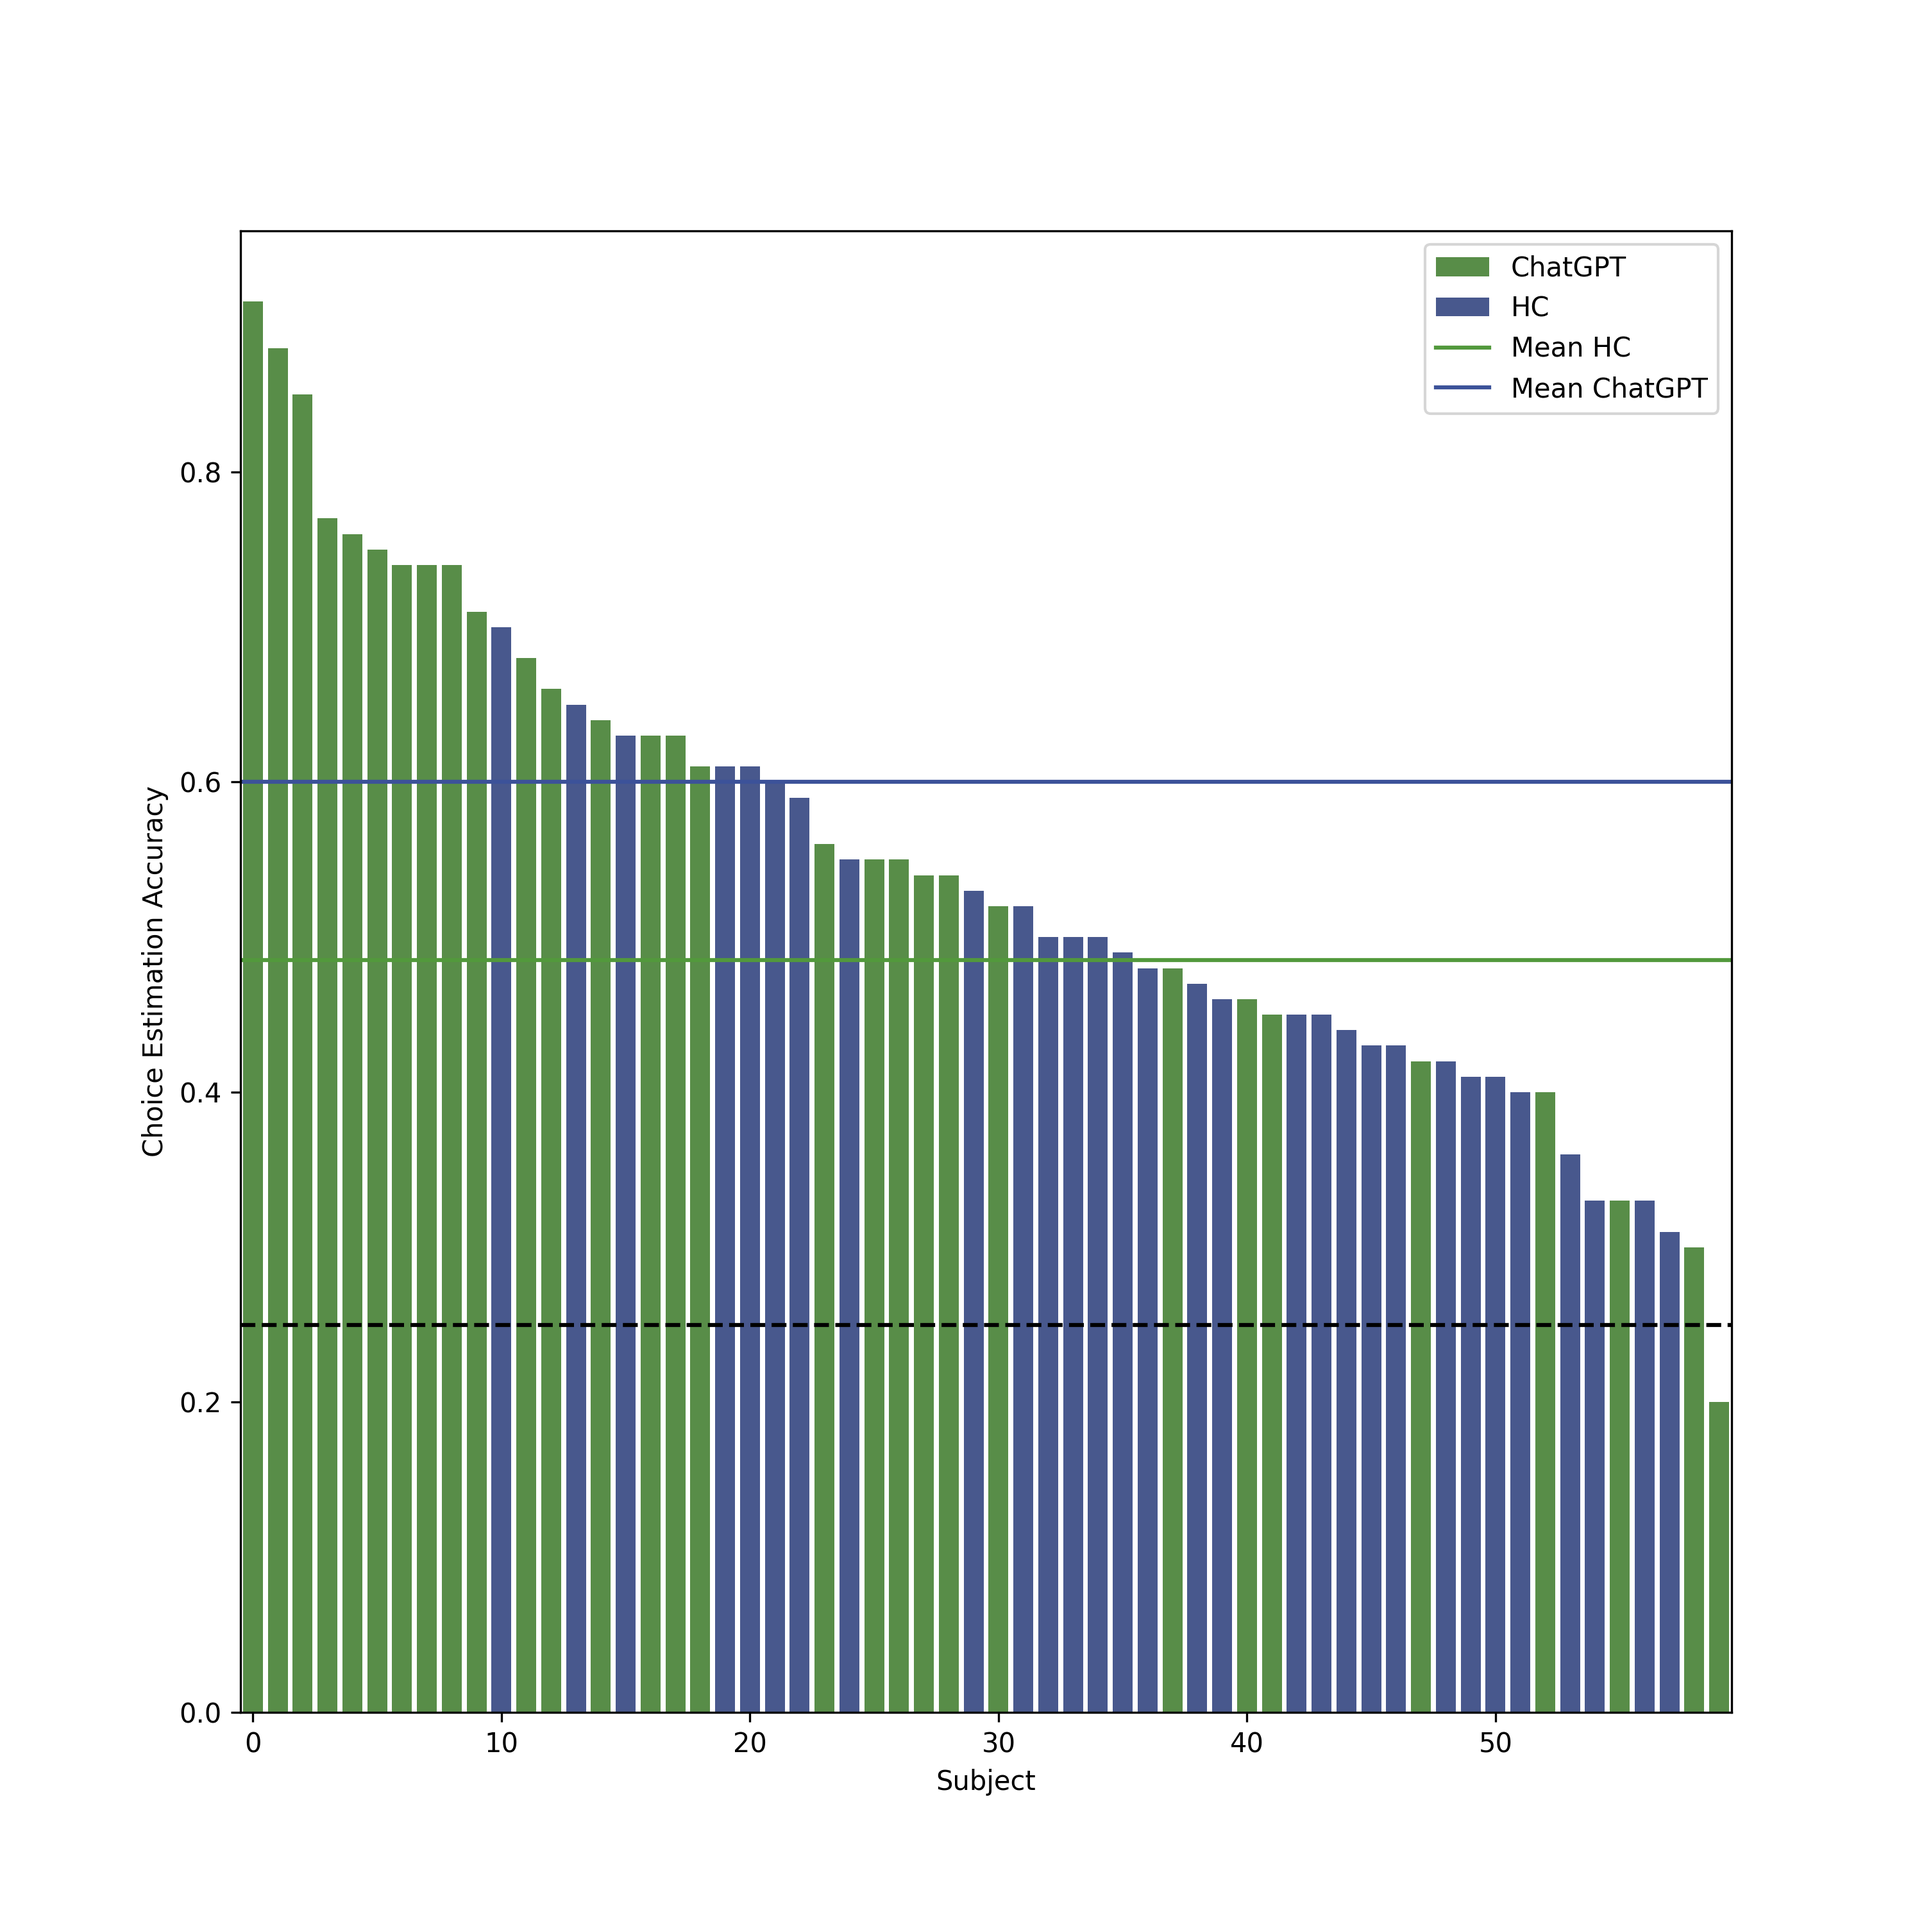
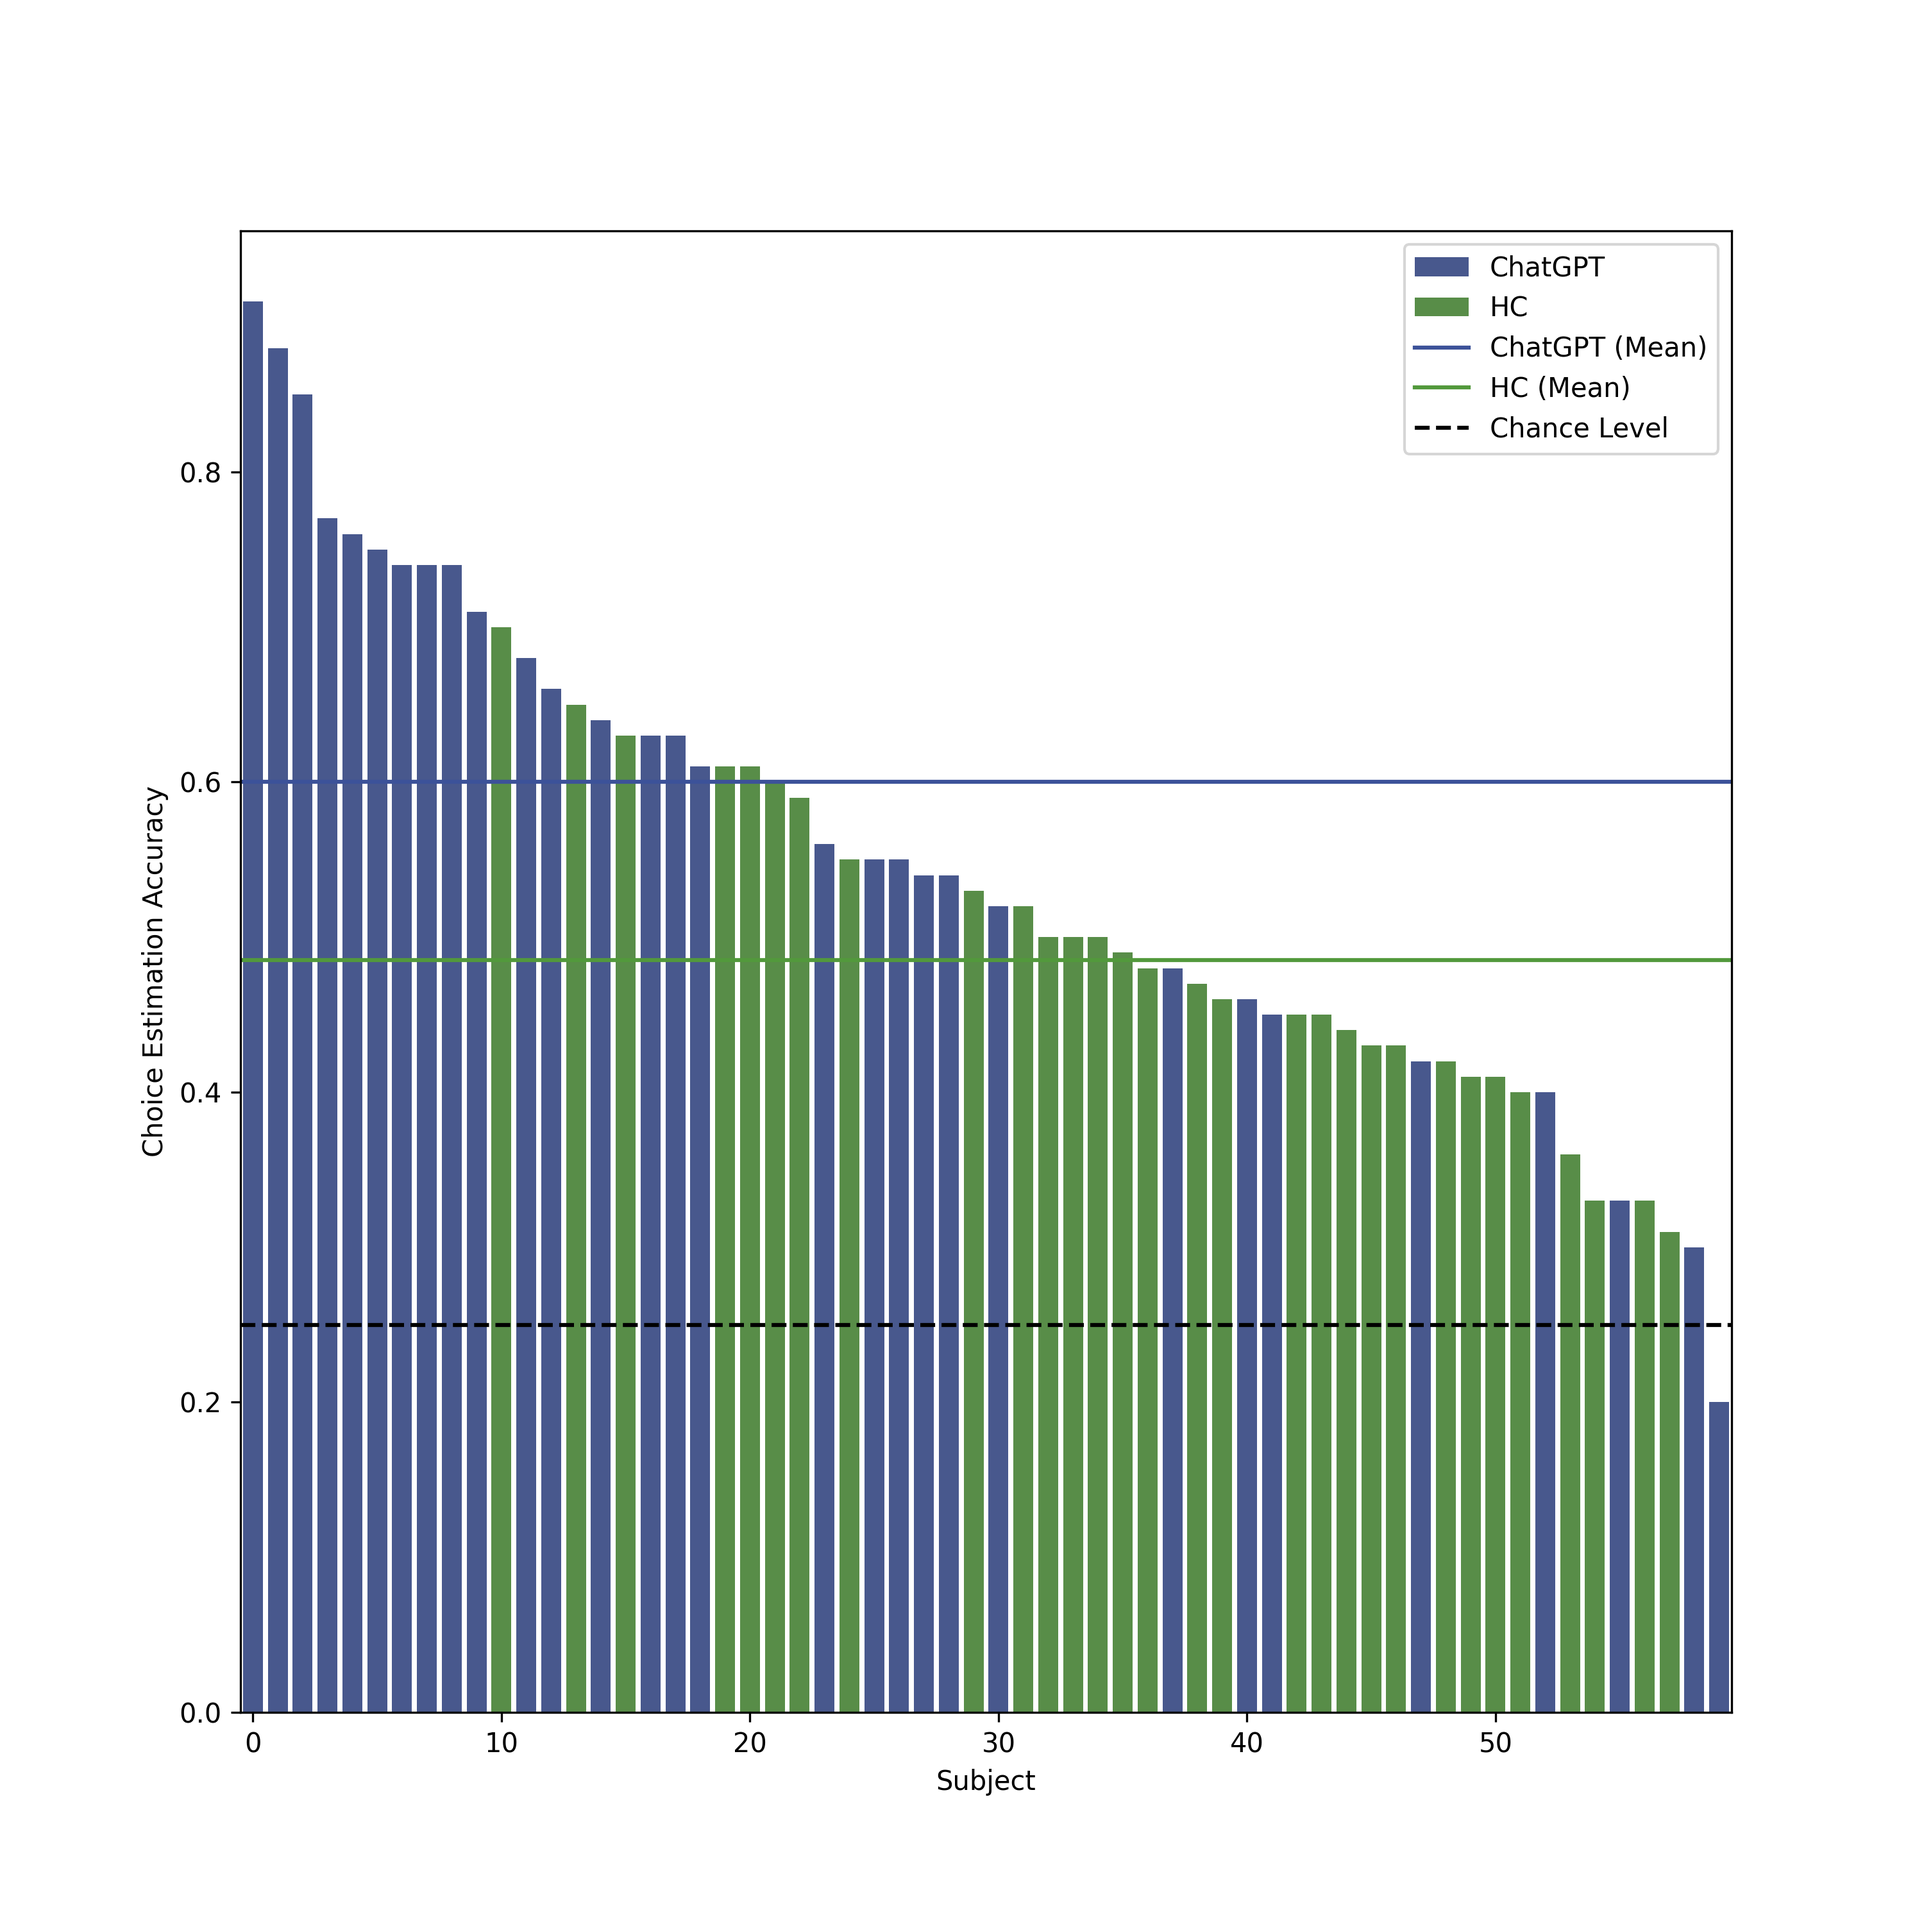
fixed color mix ups, streamlined labels on legend

Changed region(s): [[0.124, 0.155, 0.899, 0.899], [0.713, 0.124, 0.899, 0.248]]

diff --git a/src/estimation/plot_estimates.py b/src/estimation/plot_estimates.py
@@ -28,14 +28,13 @@ def plot_posteriors(hc_data, gpt_data, colors=["#398A20", "#20398A"], parameters
             "mu_K": lambda size: sample_truncated_normal(0, 1, 0, np.inf, size),
             "mu_theta": lambda size: sample_truncated_normal(0, 1, 0, np.inf, size),
             "mu_omega_f": lambda size: np.random.normal(0, 1, size),
-            "mu_omega_p": lambda size: np.random.normal(0, 1, size),
-            # Add other priors if necessary
+            "mu_omega_p": lambda size: np.random.normal(0, 1, size)
         }
 
     for i, (param_name, param_title) in enumerate(parameters):
         ax = axs[i // 2, i % 2]
         sns.kdeplot(hc_data[param_name], ax=ax, fill=True, alpha=0.5, label="HC", color=colors[0])
-        sns.kdeplot(gpt_data[param_name], ax=ax, fill=True, alpha=0.5, label="GPT", color=colors[1])
+        sns.kdeplot(gpt_data[param_name], ax=ax, fill=True, alpha=0.5, label="ChatGPT", color=colors[1])
 
         # Plot prior if show_priors is True
         if show_priors and priors:
@@ -49,6 +48,50 @@ def plot_posteriors(hc_data, gpt_data, colors=["#398A20", "#20398A"], parameters
 
     if save_path is not None:
         plt.savefig(save_path, dpi=300)
+
+def plot_hc_posteriors(main_hc_sample, other_hc_samples, parameters=[("mu_a_rew", "$\mu A_{rew}$"), ("mu_a_pun", "$\mu A_{pun}$"), ("mu_K", "$\mu K$"), ("mu_theta","$\mu \\theta$"), ("mu_omega_f","$\mu \omega_F$"), ("mu_omega_p", "$\mu \omega_P$")], save_path=None, show_priors=False):
+    fig, axs = plt.subplots(3, 2, figsize=(10, 10))
+    plt.subplots_adjust(hspace=0.5)
+
+    # Define colors
+    main_color = "#398A20"  # Green for the main dataframe
+    other_color = "#D3D3D3"  # Light grey for other dataframes
+
+    # Define prior distributions only if show_priors is True
+    priors = None
+    if show_priors:
+        priors = {
+            "mu_a_rew": lambda size: sample_truncated_normal(0, 1, 0, 1, size),
+            "mu_a_pun": lambda size: sample_truncated_normal(0, 1, 0, 1, size),
+            "mu_K": lambda size: sample_truncated_normal(0, 1, 0, np.inf, size),
+            "mu_theta": lambda size: sample_truncated_normal(0, 1, 0, np.inf, size),
+            "mu_omega_f": lambda size: np.random.normal(0, 1, size),
+            "mu_omega_p": lambda size: np.random.normal(0, 1, size)
+        }
+
+    for i, (param_name, param_title) in enumerate(parameters):
+        ax = axs[i // 2, i % 2]
+
+        # Plot for main dataframe
+        sns.kdeplot(main_hc_sample[param_name], ax=ax, fill=True, alpha=0.5, label="Main", color=main_color)
+
+        # Plot for other dataframes
+        for other_df in other_hc_samples:
+            sns.kdeplot(other_df[param_name], ax=ax, fill=True, alpha=0.5, color=other_color, legend=False)
+
+        # Plot prior if show_priors is True
+        if show_priors and priors:
+            prior_samples = priors[param_name](1000)
+            sns.kdeplot(prior_samples, ax=ax, color="k", linestyle="--", alpha=0.5, label="Prior")
+
+        ax.set_title(param_title)
+        ax.set_xlabel("Value")
+        ax.set_ylabel("Density")
+        ax.legend()
+
+    if save_path is not None:
+        plt.savefig(save_path, dpi=300)
+
 
 def plot_multiple_descriptive_adequacies(hc_data, gpt_data, colors = ["#52993C", "#3C5299"], save_path=None):
     '''
@@ -76,7 +119,7 @@ def plot_multiple_descriptive_adequacies(hc_data, gpt_data, colors = ["#52993C",
     df = df.sort_values(by=['pred_success'], ascending=False).reset_index(drop=True)
 
     # Create bar plot with each subject (row) on the x-axis and the accuracy on the y-axis and colored by group
-    sns.barplot(x=df.index, y=df['pred_success'], hue=df['group'], ax=ax, palette=[colors[0], colors[1]])
+    sns.barplot(x=df.index, y=df['pred_success'], hue=df['group'], ax=ax, palette=[colors[1], colors[0]])
 
     # Calculate mean accuracies
     hc_mean = df[df['group'] == 'HC']['pred_success'].mean()
@@ -100,9 +143,10 @@ def plot_multiple_descriptive_adequacies(hc_data, gpt_data, colors = ["#52993C",
 
     # Create custom legend
     handles, labels = ax.get_legend_handles_labels()
-    handles.extend([plt.Line2D([], [], color=colors[0], linestyle='-'),
-                    plt.Line2D([], [], color=colors[1], linestyle='-')])
-    labels.extend(['Mean HC', 'Mean ChatGPT'])
+    handles.extend([plt.Line2D([], [], color=colors[1], linestyle='-'),
+                    plt.Line2D([], [], color=colors[0], linestyle='-'),
+                    plt.Line2D([], [], color='black', linestyle='--')])
+    labels.extend(['ChatGPT (Mean)', 'HC (Mean)', 'Chance Level'])
     ax.legend(handles, labels, loc='upper right')
 
     # Save the plot if a save path is provided
